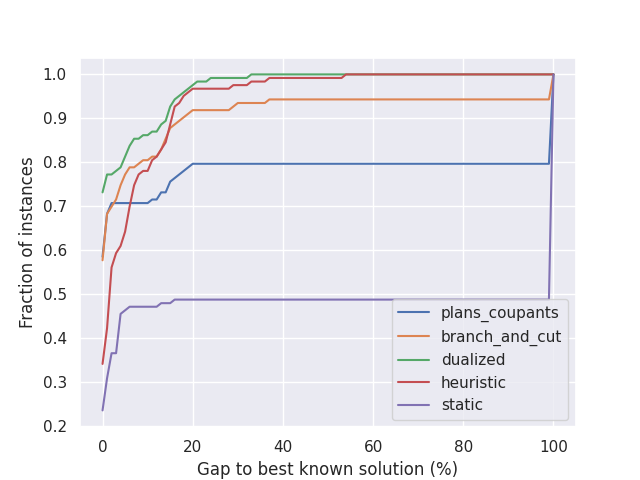
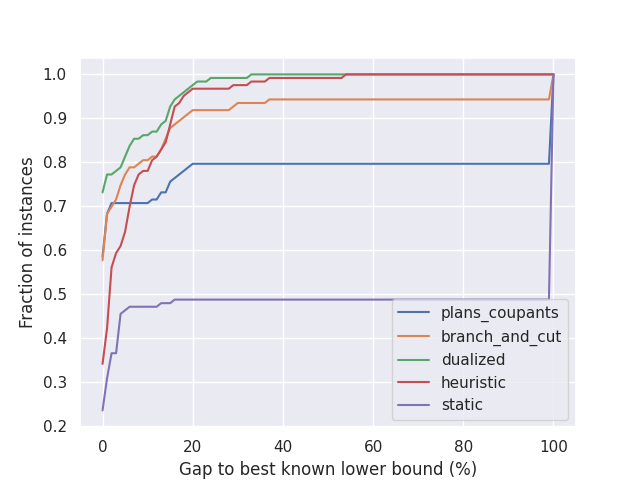
change name x axis - figure

Changed region(s): [[0.2812, 0.9375, 0.75, 1.0]]

diff --git a/main.py b/main.py
@@ -79,7 +79,7 @@ def make_graphic2(big_df):
             nb_instances_with_gap_less_than_gap = big_df[(big_df['method'] == method) & (big_df['gap'] <= gap + 1e-5)].shape[0]
             fraction_instances_with_gap_less_than.append(nb_instances_with_gap_less_than_gap/n_instances)
         plt.plot(gaps, fraction_instances_with_gap_less_than, label=method)
-    plt.xlabel("Gap to best known solution (%)")
+    plt.xlabel("Gap to best known lower bound (%)")
     plt.ylabel("Fraction of instances")
     plt.legend(loc='lower right')
     plt.savefig("graphics/instances_with_gap_less_than_by_method.png")
@@ -203,5 +203,4 @@ def make_tab_best_solution():
 
 
 if __name__ == '__main__':
-    # make_results_tab()
-    make_tab_best_solution()
+    make_results_tab()
